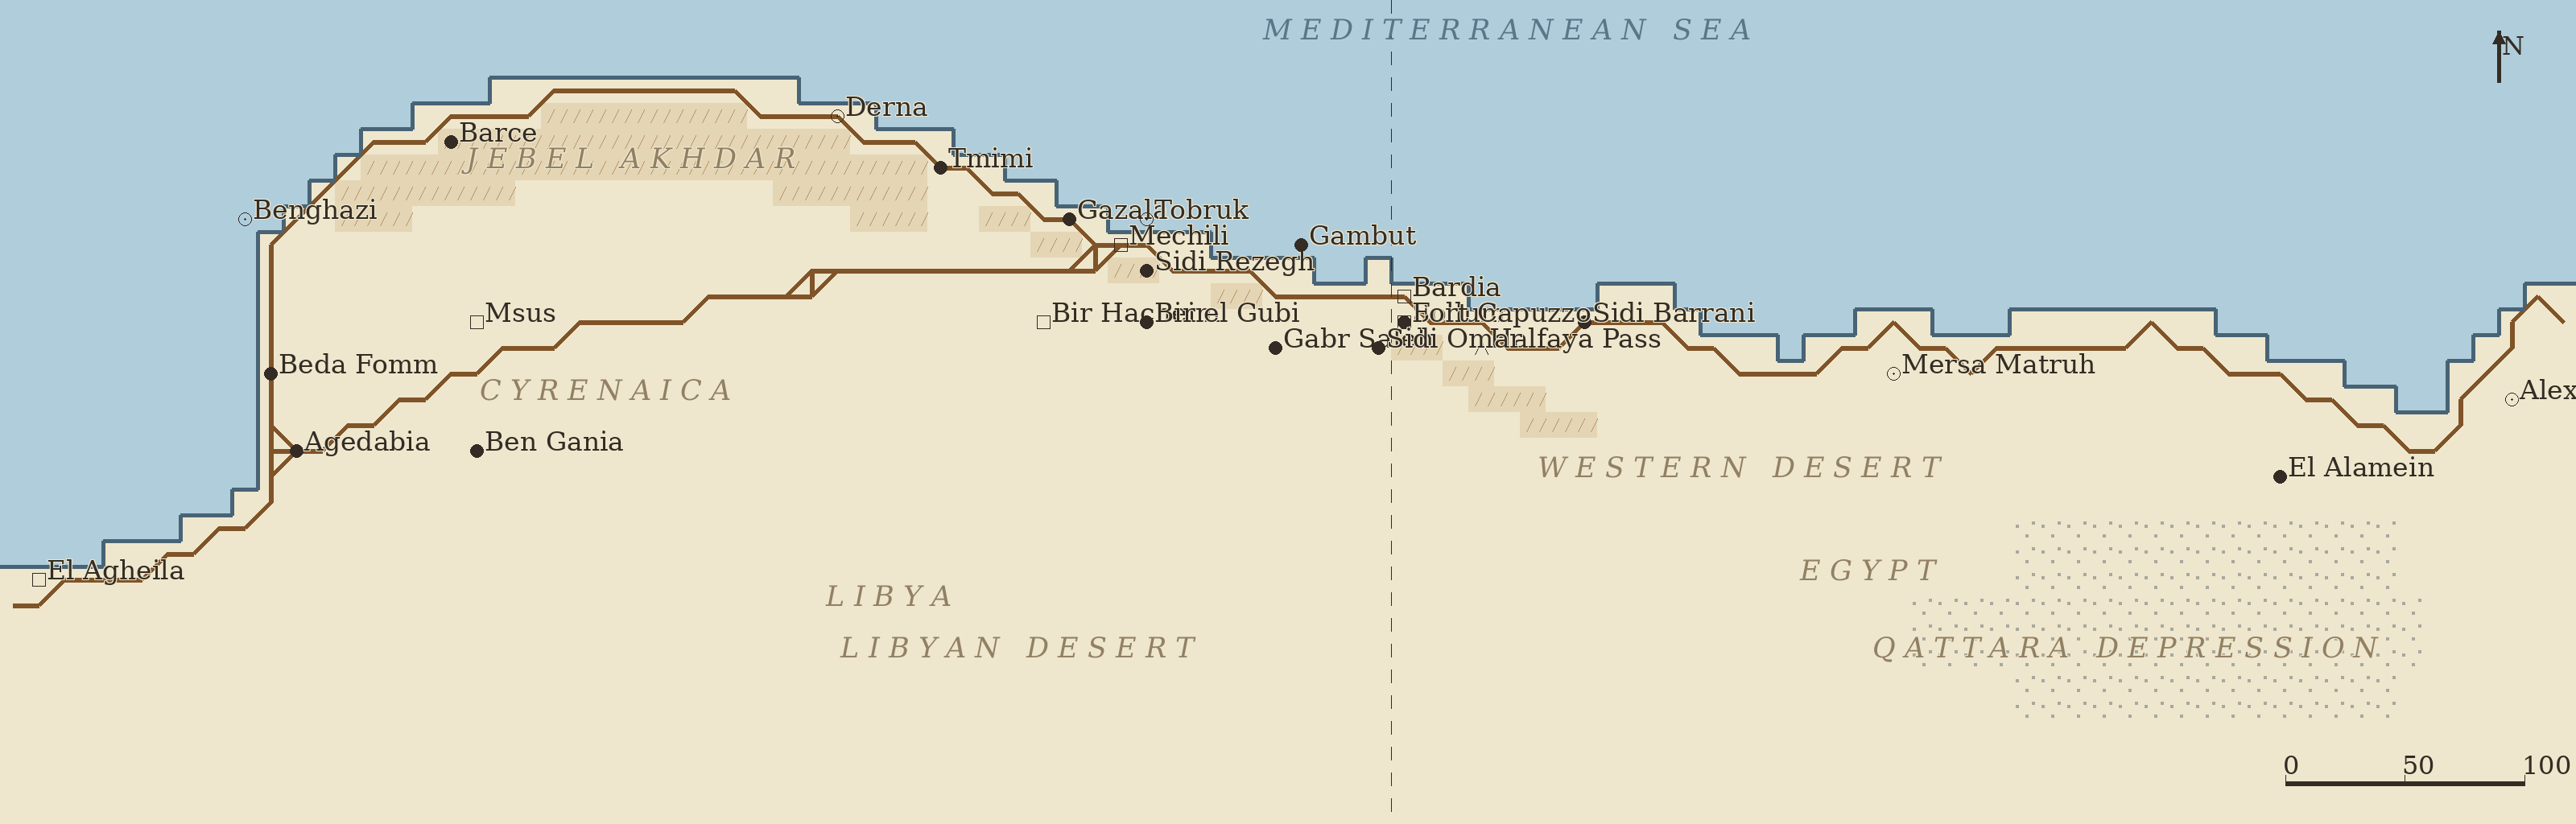
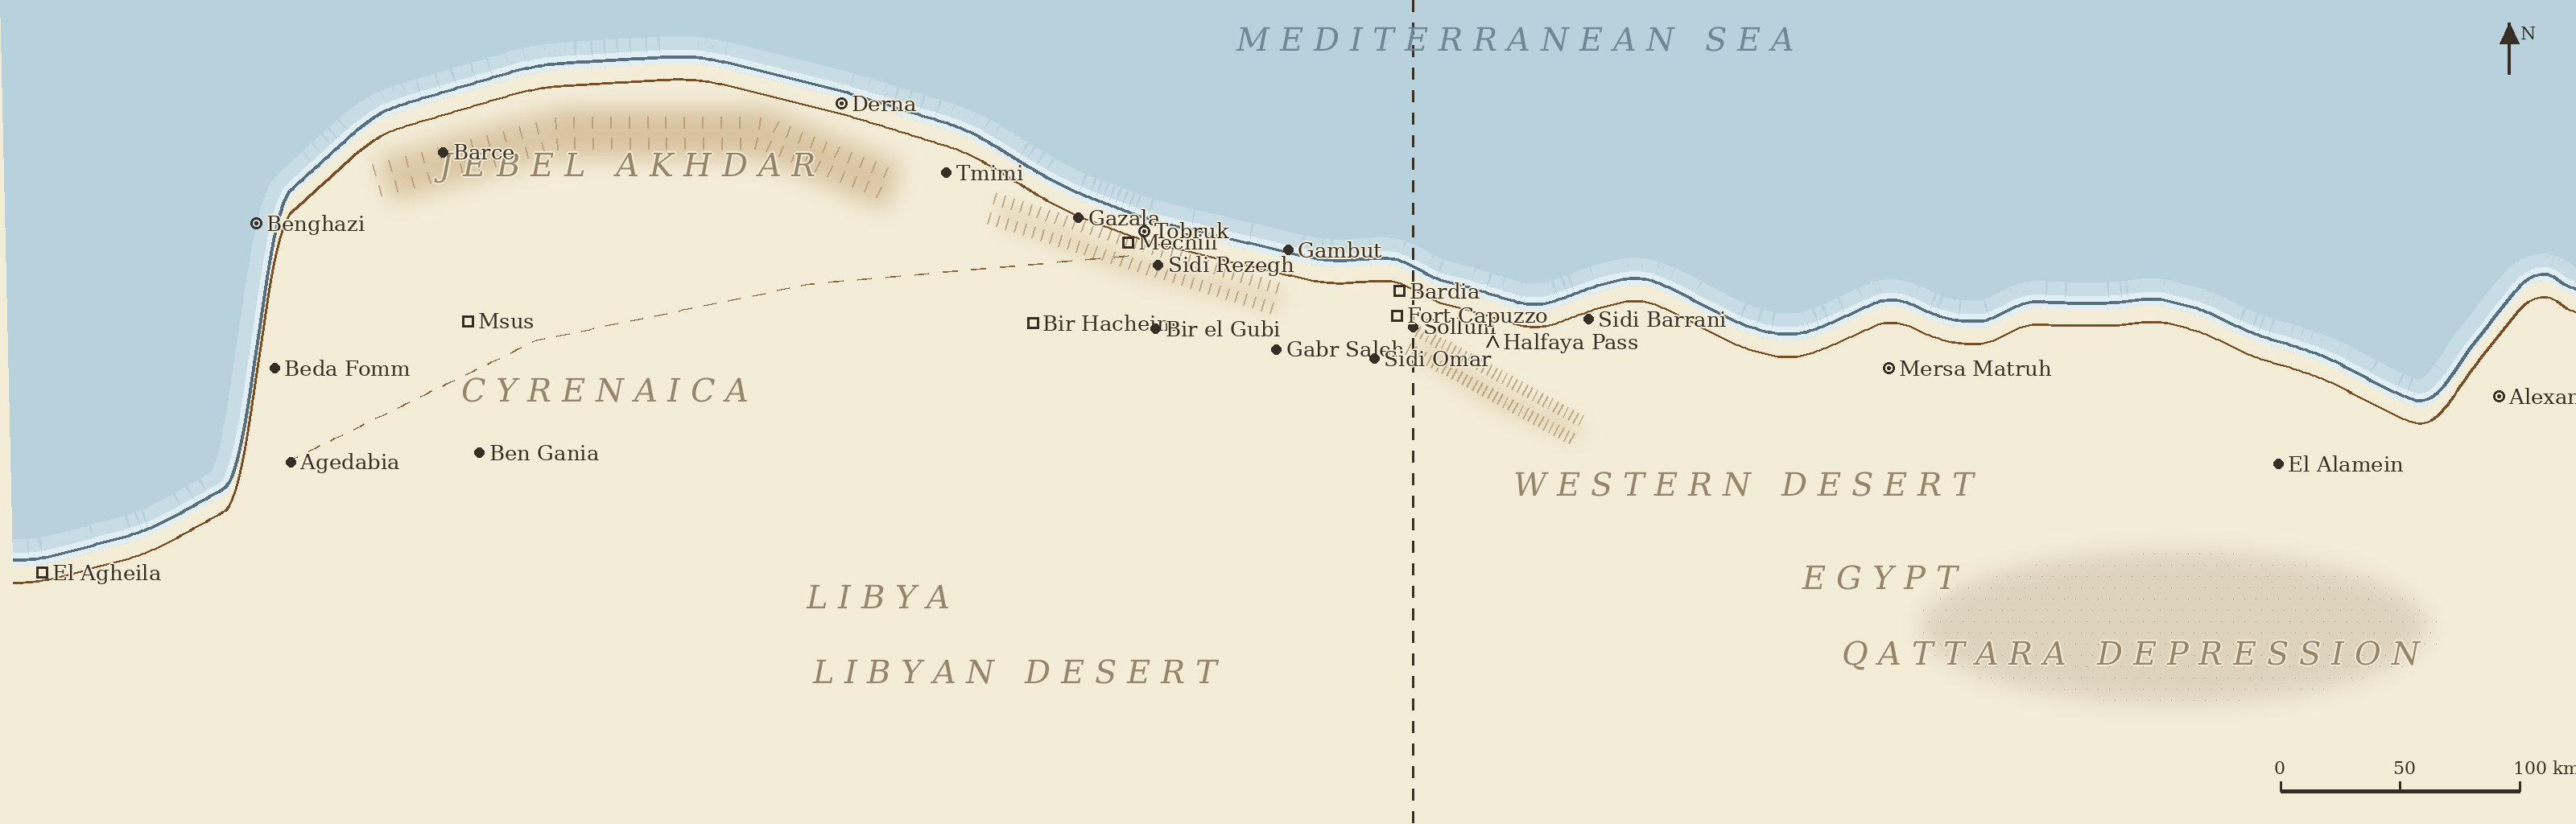
Vector-drawn map image: smooth cartography from the shared vector source
build_default_map_image.py rewritten: instead of rasterizing the 100x32
grid (staircase coast, chunky roads at any resolution), draw map.png
directly from the vector source shared with the terrain builder -- the
eased coast profile upsampled+smoothed, road/relief control polylines,
place compilation -- at 32px/cell. Smooth AA coastline with near-shore
tint, blurred relief + hachures, soft stippled Qattara, offset coastal
road, dashed track and frontier, serif/italic typography, north arrow,
scale bar. Grid alignment preserved (same projection, same eased
profile). ~6,800 distinct colours in a game view vs ~40 before.
260 passing.

diff --git a/tools/build_default_map_image.py b/tools/build_default_map_image.py
@@ -1,45 +1,237 @@
-"""Bake the default pack's cartographic map image.
+"""Bake the default pack's cartographic map image -- VECTOR-DRAWN.
 
-Renders the pack's own atlas layer (an original work: own terrain
-digitization + own place compilation + generic period-cartography
-conventions) at high resolution into content_packs/default/map.png, and
-writes the matching map_calibration.json. The game then uses the image
-as THE map -- the 100x32 grid is the invisible engine underlay and
-counters are transposed onto the image via the calibration.
+Draws content_packs/default/map.png at high resolution directly from the
+same vector source that generates the 100x32 terrain grid (the eased
+coast profile, the road polylines, the relief control points and the
+place compilation in tools/build_default_map.py). The result is smooth
+professional-style cartography -- anti-aliased coastline, soft relief,
+curved roads -- instead of an upscaled cell grid, while staying
+calibrated to the grid because both derive from one projection.
 
-Rebuild after changing the terrain or features:
+This is an ORIGINAL map drawn with generic period-atlas conventions
+(cream paper, pale sea, coast stroke with offshore tint, blurred relief
+with hachures, dot-and-serif-label settlements, italic region names,
+scale bar, north arrow). It reproduces no published map's artwork.
+
+Rebuild after changing terrain or features:
     python3 tools/build_default_map.py
     python3 tools/build_default_map_image.py
 """
 import json
+import math
+import sys
 from pathlib import Path
 
 ROOT = Path(__file__).resolve().parent.parent
-CELL_PX = 32  # bake resolution: 3200x1024
+sys.path.insert(0, str(ROOT / "tools"))
+import build_default_map as src  # the vector source
+
+from PIL import Image, ImageDraw, ImageFilter, ImageFont
+
+S = 32                      # px per cell -> 3200 x 1024
+W_PX, H_PX = src.W * S, src.H * S
+
+PAPER = (243, 237, 216)
+SEA = (199, 220, 229)
+SEA_DEEP = (183, 209, 221)
+COAST = (86, 110, 126)
+COAST_TINT = (225, 238, 243)
+ROAD = (122, 78, 36)
+TRACK = (139, 100, 60)
+RELIEF = (215, 194, 158)
+RELIEF_DEEP = (198, 172, 130)
+HACHURE = (172, 140, 100)
+INK = (55, 47, 38)
+REGION_INK = (150, 133, 106)
+SEA_INK = (110, 136, 152)
+DEPRESSION = (222, 212, 190)
+
+FONT_DIR = "/usr/share/fonts/truetype/dejavu"
+
+
+def fonts():
+    return (
+        ImageFont.truetype(f"{FONT_DIR}/DejaVuSerif.ttf", 26),          # towns
+        ImageFont.truetype(f"{FONT_DIR}/DejaVuSerif-Italic.ttf", 40),   # regions
+        ImageFont.truetype(f"{FONT_DIR}/DejaVuSerif.ttf", 22),          # small
+    )
+
+
+def smooth_coast_path(samples_per_cell=8, window=13):
+    """The eased per-column coast profile, upsampled and smoothed into a
+    pixel-space path. Using the EASED profile (not the raw polyline)
+    keeps the drawn coast consistent with the playable grid.
+    """
+    profile = src.constrained_coast_profile()
+    dense = []
+    n = src.W
+    for i in range(n * samples_per_cell):
+        x = i / samples_per_cell
+        x0 = min(int(x), n - 2)
+        t = x - x0
+        dense.append(profile[x0] * (1 - t) + profile[x0 + 1] * t)
+    half = window // 2
+    sm = []
+    for i in range(len(dense)):
+        lo, hi = max(0, i - half), min(len(dense), i + half + 1)
+        sm.append(sum(dense[lo:hi]) / (hi - lo))
+    return [((i / samples_per_cell + 0.5) * S, y * S) for i, y in enumerate(sm)]
+
+
+def polyline_px(lonlat_points, samples=200):
+    pts = [src.to_grid(lon, lat) for lon, lat in lonlat_points]
+    out = []
+    for (x0, y0), (x1, y1) in zip(pts, pts[1:]):
+        for i in range(samples // max(1, len(pts) - 1) + 1):
+            t = i / (samples // max(1, len(pts) - 1) + 1)
+            out.append(((x0 + t * (x1 - x0) + 0.5) * S, (y0 + t * (y1 - y0) + 0.5) * S))
+    out.append(((pts[-1][0] + 0.5) * S, (pts[-1][1] + 0.5) * S))
+    return out
 
 
 def main():
-    import sys
-    sys.path.insert(0, str(ROOT))
-    from desert_rats import board, packs
-    from desert_rats.render import image
+    img = Image.new("RGB", (W_PX, H_PX), PAPER)
+    draw = ImageDraw.Draw(img, "RGBA")
+    town_f, region_f, small_f = fonts()
 
-    packs.set_active_pack("default")
-    b = board.load_board()
-    img = image.render_board_image([], b, cell_px=CELL_PX, use_map_image=False)
+    coast = smooth_coast_path()
+
+    # --- sea fill (gradient band: lighter along the shore)
+    sea_poly = [(0, 0), (W_PX, 0)] + list(reversed(coast))
+    draw.polygon(sea_poly, fill=SEA_DEEP)
+    # near-shore tint band
+    band = [(x, y) for (x, y) in coast]
+    draw.line(band, fill=SEA, width=int(1.6 * S), joint="curve")
+    draw.line(band, fill=COAST_TINT, width=int(0.55 * S), joint="curve")
+    # redraw sea above the tint spill
+    draw.polygon([(0, 0), (W_PX, 0),
+                  (W_PX, min(y for _, y in coast) - 2 * S),
+                  (0, min(y for _, y in coast) - 2 * S)], fill=SEA_DEEP)
+
+    # land back over any band spill below the coast
+    land_poly = [(0, H_PX), (W_PX, H_PX)] + list(reversed([(x, y + int(0.3 * S)) for x, y in coast]))
+    draw.polygon(land_poly, fill=PAPER)
+
+    # --- relief (blurred overlay, then hachures)
+    relief = Image.new("RGBA", (W_PX, H_PX), (0, 0, 0, 0))
+    rd = ImageDraw.Draw(relief)
+    jebel = polyline_px([(20.6, 32.35), (21.4, 32.6), (22.3, 32.6), (22.9, 32.3)])
+    rd.line(jebel, fill=RELIEF_DEEP + (235,), width=int(2.6 * S), joint="curve")
+    rd.line(jebel, fill=RELIEF + (255,), width=int(1.6 * S), joint="curve")
+    for pts in ([(25.15, 31.5), (25.5, 31.2), (25.9, 31.0)],
+                [(23.3, 32.2), (23.9, 31.9), (24.6, 31.7)]):
+        p = polyline_px(pts)
+        rd.line(p, fill=RELIEF_DEEP + (220,), width=int(1.2 * S), joint="curve")
+    relief = relief.filter(ImageFilter.GaussianBlur(S // 2))
+    img.paste(Image.composite(Image.new("RGB", img.size, RELIEF), img, relief.split()[3]),
+              (0, 0), relief.split()[3])
+    draw = ImageDraw.Draw(img, "RGBA")
+
+    # hachure ticks along the relief spines
+    for path in (jebel, polyline_px([(25.15, 31.5), (25.9, 31.0)]),
+                 polyline_px([(23.3, 32.2), (24.6, 31.7)])):
+        for i in range(0, len(path) - 6, 6):
+            (x0, y0), (x1, y1) = path[i], path[i + 5]
+            dx, dy = x1 - x0, y1 - y0
+            L = math.hypot(dx, dy) or 1
+            nx, ny = -dy / L, dx / L
+            for side in (1, -1):
+                draw.line([x0 + nx * side * 6, y0 + ny * side * 6,
+                           x0 + nx * side * 20, y0 + ny * side * 20],
+                          fill=HACHURE + (170,), width=2)
+
+    # --- Qattara Depression: soft blob + stipple
+    q = Image.new("RGBA", (W_PX, H_PX), (0, 0, 0, 0))
+    qd = ImageDraw.Draw(q)
+    qx0, qy0 = src.to_grid(27.4, 30.35)
+    qx1, qy1 = src.to_grid(29.7, 29.45)
+    qd.ellipse([qx0 * S, qy0 * S, qx1 * S, qy1 * S], fill=DEPRESSION + (255,))
+    q = q.filter(ImageFilter.GaussianBlur(S // 2))
+    img.paste(Image.composite(Image.new("RGB", img.size, DEPRESSION), img, q.split()[3]),
+              (0, 0), q.split()[3])
+    draw = ImageDraw.Draw(img, "RGBA")
+    for gx in range(int(qx0 * S), int(qx1 * S), 14):
+        for gy in range(int(qy0 * S), int(qy1 * S), 14):
+            fx = (gx - qx0 * S) / max(1, (qx1 - qx0) * S)
+            fy = (gy - qy0 * S) / max(1, (qy1 - qy0) * S)
+            if (fx - 0.5) ** 2 / 0.25 + (fy - 0.5) ** 2 / 0.2 < 1:
+                draw.point((gx + (gy // 14 % 2) * 7, gy), fill=(150, 140, 120))
+
+    # --- coast stroke
+    draw.line(coast, fill=COAST, width=max(3, S // 8), joint="curve")
+
+    # --- roads: coastal road offset inland from the smooth coast + track
+    coast_road = [(x, y + 0.9 * S) for (x, y) in coast]
+    draw.line(coast_road, fill=ROAD, width=max(3, S // 9), joint="curve")
+    chord = polyline_px([(20.2, 30.85), (21.3, 31.5), (22.5, 31.8), (23.9, 31.95)])
+    # dashed track
+    for i in range(0, len(chord) - 3, 6):
+        draw.line(chord[i:i + 4], fill=TRACK, width=max(2, S // 11))
+
+    # --- frontier wire (dashed vertical)
+    bx, _ = src.to_grid(src.FRONTIER_LON, 31.0)
+    px = (bx + 0.5) * S
+    for y0 in range(0, H_PX, int(0.9 * S)):
+        draw.line([px, y0, px, y0 + int(0.45 * S)], fill=INK, width=3)
+
+    # --- labels & markers
+    def halo_text(pos, label, fill, font):
+        x, y = pos
+        for ox, oy in ((-2, 0), (2, 0), (0, -2), (0, 2), (-1, -1), (1, 1), (1, -1), (-1, 1)):
+            draw.text((x + ox, y + oy), label, font=font, fill=PAPER)
+        draw.text((x, y), label, font=font, fill=fill)
+
+    sx, sy = src.to_grid(*src.SEA_LABEL[1:])
+    spaced = " ".join(src.SEA_LABEL[0])
+    w = draw.textlength(spaced, font=region_f)
+    draw.text(((sx + 0.5) * S - w / 2, (sy + 0.5) * S - 20), spaced, font=region_f, fill=SEA_INK)
+
+    for name, lon, lat in src.REGION_LABELS:
+        x, y = src.to_grid(lon, lat)
+        spaced = " ".join(name)
+        w = draw.textlength(spaced, font=region_f)
+        halo_text(((x + 0.5) * S - w / 2, (y + 0.5) * S - 20), spaced, REGION_INK, region_f)
+
+    r = 7
+    for name, lon, lat, kind in src.FEATURES:
+        x, y = src.to_grid(lon, lat)
+        cx, cy = (x + 0.5) * S, (y + 0.5) * S
+        if kind == "fort":
+            draw.rectangle([cx - r, cy - r, cx + r, cy + r], outline=INK, width=3)
+        elif kind == "port":
+            draw.ellipse([cx - r, cy - r, cx + r, cy + r], outline=INK, width=3)
+            draw.ellipse([cx - 2, cy - 2, cx + 2, cy + 2], fill=INK)
+        elif kind == "pass":
+            draw.line([cx - r, cy + r, cx, cy - r], fill=INK, width=3)
+            draw.line([cx, cy - r, cx + r, cy + r], fill=INK, width=3)
+        else:
+            draw.ellipse([cx - r + 1, cy - r + 1, cx + r - 1, cy + r - 1], fill=INK)
+        halo_text((cx + r + 5, cy - 16), name, INK, town_f)
+
+    # --- furniture: north arrow, scale bar
+    nx, ny = W_PX - int(2.6 * S), int(0.9 * S)
+    draw.line([nx, ny + 2 * S, nx, ny], fill=INK, width=4)
+    draw.polygon([(nx - 12, ny + 26), (nx + 12, ny + 26), (nx, ny)], fill=INK)
+    draw.text((nx + 14, ny), "N", font=small_f, fill=INK)
+
+    features = json.loads((ROOT / "content_packs" / "default" / "features.json").read_text())
+    kpc = features["km_per_cell"]
+    bar_px = int(100 / kpc * S)
+    bx0, by0 = W_PX - bar_px - int(2.2 * S), H_PX - int(1.3 * S)
+    draw.line([bx0, by0, bx0 + bar_px, by0], fill=INK, width=5)
+    for frac, lab in ((0, "0"), (0.5, "50"), (1.0, "100 km")):
+        tx = bx0 + int(frac * bar_px)
+        draw.line([tx, by0 - 12, tx, by0], fill=INK, width=3)
+        halo_text((tx - 8, by0 - 42), lab, INK, small_f)
+
     out = ROOT / "content_packs" / "default" / "map.png"
     img.save(out, optimize=True)
-
-    cal = ROOT / "content_packs" / "default" / "map_calibration.json"
-    cal.write_text(json.dumps({
-        "_provenance": (
-            "Identity calibration for the baked atlas image "
-            f"(tools/build_default_map_image.py, {CELL_PX}px per cell)."
-        ),
-        "cell_to_px_x": [CELL_PX, 0],
-        "cell_to_px_y": [CELL_PX, 0],
+    (ROOT / "content_packs" / "default" / "map_calibration.json").write_text(json.dumps({
+        "_provenance": f"Identity calibration for the vector-drawn atlas image ({S}px per cell).",
+        "cell_to_px_x": [S, 0],
+        "cell_to_px_y": [S, 0],
     }, indent=1))
-    print(f"wrote {out} ({img.size[0]}x{img.size[1]}) and {cal}")
+    print(f"wrote {out} ({img.size[0]}x{img.size[1]})")
 
 
 if __name__ == "__main__":

diff --git a/NOTES.md b/NOTES.md
@@ -535,3 +535,30 @@ calibration mapping grid coordinates to image pixels.
   default map must remain our own work.
 - Verified: viewport crops of the image skin are pixel-consistent with
   the full render (test), counters transpose correctly in play.
+
+## Vector-drawn map image (replacing the grid-rasterized bake)
+
+Feedback: the baked map image still looked nothing like professional
+cartography. Root cause: it was rendered FROM the 100x32 cell grid, so
+it carried a staircase coastline and chunky roads at any resolution.
+`tools/build_default_map_image.py` rewritten to draw the image directly
+from the VECTOR source shared with the terrain builder -- the eased
+coast profile (upsampled + smoothed), the road and relief control
+polylines, and the place compilation -- at 32px/cell (3200x1024):
+
+- smooth anti-aliased coastline with a near-shore tint band over pale sea;
+- relief as blurred tan strokes with perpendicular hachure ticks
+  (Jebel Akhdar, Sollum, Gazala ridges);
+- the Qattara Depression as a soft blob with stipple;
+- the coastal road as a smooth offset of the coast path, the inland
+  track dashed; dashed frontier wire;
+- serif settlement labels with paper halos, italic letter-spaced region
+  names, sea name, north arrow, 100 km scale bar.
+
+Alignment with the playable grid is preserved because the image and the
+grid derive from the same projection and the same eased profile
+(sub-cell visual smoothness only). The game view downsamples the bake
+with LANCZOS: ~6,800 distinct colours in a 1000px view vs ~40 for the
+old grid render. The image remains ORIGINAL work drawn with generic
+period-atlas conventions; it reproduces no published map's artwork
+(user-supplied scans remain the local-only route for that look).